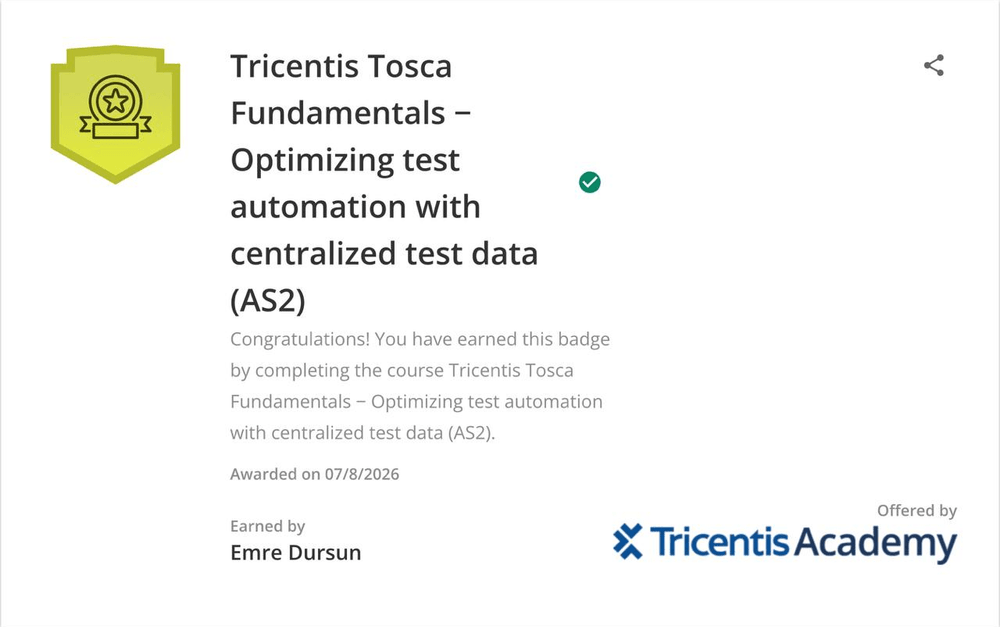
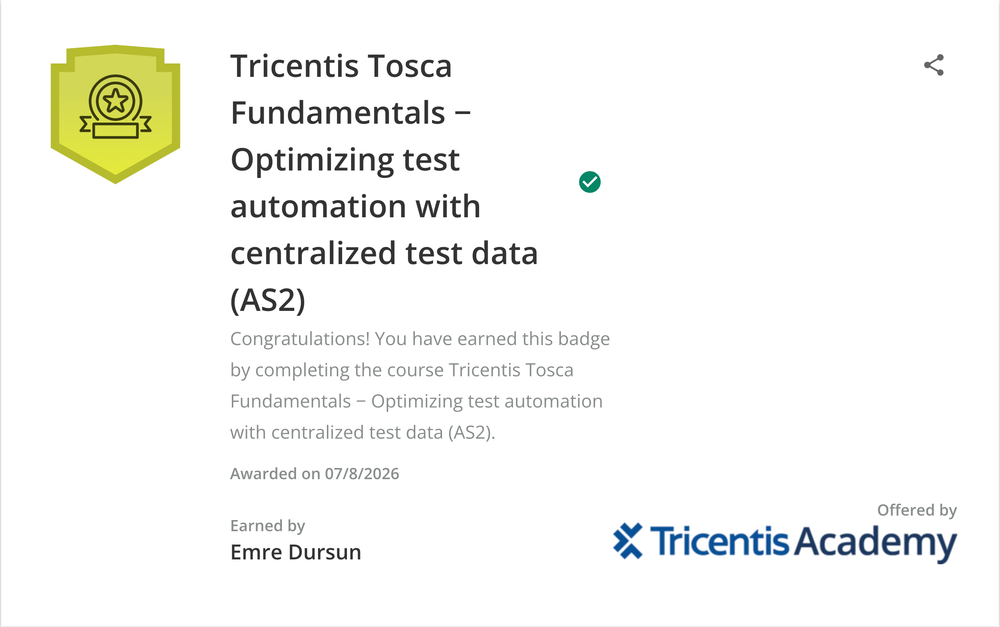
feat: rewrite About Me from LinkedIn profile, split Pega and Tosca into separate cards
Content sourced from the user's current LinkedIn About section and the original
certificates in the Personal Development folder.

About Me (en/tr/nl):
- Rewrite introText, introQuote, storyPart1 and storyPart2 from the current
  LinkedIn About text: Pega Practice work, the ING/Dovetail chapter, the
  reliability-over-reruns philosophy, Applied Mathematics background, and the
  Devran AI Kit / AI-assisted tooling angle
- Add storyPart3 with availability and a call to action, rendered as a third
  paragraph in the My Journey section
- Replace the generic profile badges (Agile & Scrum, Full-Stack QA) with the
  current credentials: CPBA & CPSA, Tosca Advanced, ISTQB

Services:
- Split the combined "Pega & Tricentis Tosca" card into two focused cards.
  The single certificateImage field meant the Pega credentials had no visual
  representation at all, and five tags overflowed the card.
  - "Pega Platform Architecture" — CPSA certificate, CPBA in the path
  - "Tricentis Tosca Test Automation" — Product Consultant (C26494, Advanced),
    with the full seven-badge Academy path (AS1, AS2, API, TDS1, TDS2, AE1, KPI)
- Add the AE1 and KPI badges and re-encode the five existing badges from the
  higher-resolution originals

Fixes:
- Correct the ING start date from Jun 2023 to Sep 2023 (both the CV and LinkedIn
  give September; June was the separate Sogyo engagement)
- Add the AE1 credential to the Person JSON-LD hasCredential list

diff --git a/constants.tsx b/constants.tsx
@@ -239,23 +239,49 @@ export const SERVICES: Service[] = [
     certificateImage: "/images/trust-grade-certificate.png"
   },
   {
-    icon: <i className="fas fa-sitemap"></i>,
-    title: "Pega & Tricentis Tosca Test Automation",
-    slug: "pega-tricentis-tosca-automation",
+    icon: <i className="fas fa-diagram-project"></i>,
+    title: "Pega Platform Architecture",
+    slug: "pega-platform-architecture",
     description:
-      "Combining Pega platform certification with Tricentis Tosca's model-based automation to build testability into case design from the start.",
-    tags: ["Pega", "Tricentis Tosca", "CPBA", "CPSA", "Model-Based Testing"],
+      "Designing testable Pega applications from the case model up — certified as both Business Architect and System Architect.",
+    tags: ["Pega Platform", "CPBA", "CPSA", "Case Design", "Low-Code"],
     featured: true,
     badge: "Certified",
-    expertiseLabel: "Latest Specialization",
+    expertiseLabel: "Platform Certified",
     fullDescription:
-      "QA Consultant in the Sopra Steria Pega Practice, I design test coverage, test data, and automation architecture across web UI, enterprise and desktop applications, API chains, and mobile automation (Tricentis Mobile Agent) using Tosca's model-based approach. Certified Pega Business Architect and Certified Pega System Architect certifications came before the tooling, so testability gets built into the case design from the start, not bolted on afterward.",
+      "Test automation on Pega stays fragile without understanding the platform from the inside, so the Certified Pega Business Architect and Certified Pega System Architect certifications came before the tooling. I work within the Sopra Steria Pega Practice (RulesMatter) on case design, data models, and the platform decisions that determine whether an application can be tested at all. Getting testability into the case design from the start is far cheaper than bolting it on after the fact.",
     keyBenefits: [
-      "Model-based test automation across web, desktop, API and mobile (Tricentis Tosca)",
-      "Pega case-design testability from day one (CPBA + CPSA platform depth)",
-      "Stateful test data management across distributed test runs",
-      "KPI-driven continuous testing (coverage, defect, efficiency metrics)",
-      "Tricentis Mobile Agent automation for mobile TestCases"
+      "Case design and data modelling reviewed for testability from day one",
+      "Certified Pega Business Architect (CPBA) — business rules and case lifecycle",
+      "Certified Pega System Architect (CPSA) — data models, integrations, security",
+      "Bridges business analysts and QA with a shared platform vocabulary",
+      "Foundation for model-based automation in Tricentis Tosca"
+    ],
+    relatedProjects: ["quilyn-exam-prep"],
+    certificationDate: "June 2026",
+    certificateImage: "/images/pega-certified-system-architect-cpsa.png",
+    certificateBadges: [
+      { image: "/images/pega-certified-business-architect-cpba.png", label: "Certified Pega Business Architect (CPBA) — June 2026" }
+    ]
+  },
+  {
+    icon: <i className="fas fa-vials"></i>,
+    title: "Tricentis Tosca Test Automation",
+    slug: "tricentis-tosca-automation",
+    description:
+      "Model-based test automation across web, API, desktop and mobile — certified Product Consultant at Advanced proficiency.",
+    tags: ["Tricentis Tosca", "Model-Based Testing", "Test Data Service", "Mobile Automation", "API Testing"],
+    featured: true,
+    badge: "Certified",
+    expertiseLabel: "Advanced Proficiency",
+    fullDescription:
+      "I design test coverage, test data, and automation architecture using Tosca's model-based approach — scanning applications into reusable modules rather than writing brittle scripts. The certification path covers web UI (AS1/AS2), API chains, automation beyond the browser through Excel, PDF, Mail, UIA and WinX engines, requirements-driven TestCase design with risk weighting, and stateful test data through the Test Data Service. Combined with Pega platform knowledge, this lets testability be designed in rather than retrofitted.",
+    keyBenefits: [
+      "Model-based automation across web, desktop, API and mobile in one toolchain",
+      "Reusable TestStepBlocks, recovery scenarios and multi-browser execution",
+      "Stateful test data management across distributed test runs (TDS)",
+      "Risk-weighted, requirements-driven TestCase design",
+      "KPI-driven continuous testing (coverage, defect and efficiency metrics)"
     ],
     relatedProjects: ["quilyn-exam-prep"],
     certificateId: "C26494",
@@ -266,7 +292,9 @@ export const SERVICES: Service[] = [
       { image: "/images/tricentis-as2-badge.png", label: "AS2 — Optimizing Test Automation with Centralized Test Data" },
       { image: "/images/tricentis-api-badge.png", label: "Deep Dive — Automating API Test Cases" },
       { image: "/images/tricentis-tds1-badge.png", label: "TDS1 — Structuring Test Cases and Test Data" },
-      { image: "/images/tricentis-tds2-badge.png", label: "TDS2 — Managing Stateful Test Data" }
+      { image: "/images/tricentis-tds2-badge.png", label: "TDS2 — Managing Stateful Test Data" },
+      { image: "/images/tricentis-ae1-badge.png", label: "AE1 — Automating Beyond Web Applications" },
+      { image: "/images/tricentis-kpi-badge.png", label: "Continuous Testing with Efficient KPI Management" }
     ]
   }
 ];

diff --git a/components/About.tsx b/components/About.tsx
@@ -206,7 +206,7 @@ const About: React.FC<{ onNavigate?: (page: Page) => void }> = ({ onNavigate }) 
 
   // Get translated services
   const translatedServices = useMemo(() => {
-    const serviceKeys = ['testAutomation', 'cicd', 'apiBackend', 'webDev', 'ecommerce', 'aiGovernance', 'pegaTosca'] as const;
+    const serviceKeys = ['testAutomation', 'cicd', 'apiBackend', 'webDev', 'ecommerce', 'aiGovernance', 'pegaPlatform', 'toscaAutomation'] as const;
     return SERVICES.map((service, index) => ({
       ...service,
       title: t(`services.${serviceKeys[index]}.title`),
@@ -382,9 +382,9 @@ const About: React.FC<{ onNavigate?: (page: Page) => void }> = ({ onNavigate }) 
                   }}
                 >
                   {[
-                    { icon: "fa-certificate", text: t('badges.istqbCertified') },
-                    { icon: "fa-sync", text: t('badges.agileScrum') },
-                    { icon: "fa-layer-group", text: t('badges.fullStackQA') },
+                    { icon: "fa-certificate", text: t('badges.pegaCertified') },
+                    { icon: "fa-cubes", text: t('badges.toscaAdvanced') },
+                    { icon: "fa-layer-group", text: t('badges.istqbCertified') },
                   ].map((badge, idx) => (
                     <motion.div
                       key={idx}
@@ -423,9 +423,13 @@ const About: React.FC<{ onNavigate?: (page: Page) => void }> = ({ onNavigate }) 
                   className="text-gray-600 dark:text-neon-text-secondary leading-relaxed text-lg font-medium [&_strong]:text-gray-900 dark:[&_strong]:text-neon-cyan [&_strong]:font-bold mb-4"
                   dangerouslySetInnerHTML={{ __html: t('storyPart1') }}
                 />
-                <p 
-                  className="text-gray-600 dark:text-neon-text-secondary leading-relaxed text-lg font-medium [&_strong]:text-gray-900 dark:[&_strong]:text-neon-cyan [&_strong]:font-bold"
+                <p
+                  className="text-gray-600 dark:text-neon-text-secondary leading-relaxed text-lg font-medium [&_strong]:text-gray-900 dark:[&_strong]:text-neon-cyan [&_strong]:font-bold mb-4"
                   dangerouslySetInnerHTML={{ __html: t('storyPart2') }}
+                />
+                <p
+                  className="text-gray-600 dark:text-neon-text-secondary leading-relaxed text-lg font-medium [&_strong]:text-gray-900 dark:[&_strong]:text-neon-cyan [&_strong]:font-bold"
+                  dangerouslySetInnerHTML={{ __html: t('storyPart3') }}
                 />
               </div>
               <div className="hidden lg:block w-px h-32 bg-gradient-to-b from-transparent via-gray-200 dark:via-white/10 to-transparent"></div>

diff --git a/index.html b/index.html
@@ -173,6 +173,16 @@
           },
           {
             "@type": "EducationalOccupationalCredential",
+            "name": "Tricentis Tosca Deep Dive — Automating beyond web applications (AE1)",
+            "credentialCategory": "Professional Certification",
+            "dateCreated": "2026-08",
+            "recognizedBy": {
+              "@type": "Organization",
+              "name": "Tricentis Academy"
+            }
+          },
+          {
+            "@type": "EducationalOccupationalCredential",
             "name": "Certified Pega Business Architect (CPBA)",
             "credentialCategory": "Professional Certification",
             "dateCreated": "2026-06-10",
